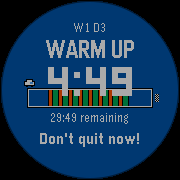
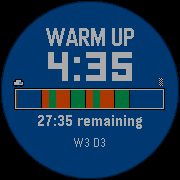
feat: health capability, menu padding on rect, motivation on Time 2
Added health capability to package.json for heart rate access.

Menus: extra padding on rect (emery/Time 2) — text and accents
shifted inward from edges. Completion dots moved slightly left.

Run screen: motivational sayings shown below W/D on rect screens
(they have vertical room without round clipping). Round screens
stay clean without motivation text.

Changed region(s): [[0.0556, 0.1111, 0.9167, 0.8333], [0.3889, 0.3889, 0.4444, 0.4722]]

diff --git a/src/c/main.c b/src/c/main.c
@@ -531,6 +531,13 @@ static void run_draw(Layer *l, GContext *ctx) {
       GRect(0,y_hdr,w,18), GTextOverflowModeTrailingEllipsis, GTextAlignmentCenter, NULL);
   }
 
+  // Motivational saying (rect screens have room below W/D)
+  #ifdef PBL_RECT
+  graphics_context_set_text_color(ctx, fg);
+  graphics_draw_text(ctx, s_motiv[s_mi], f14,
+    GRect(10, y_hdr+18, w-20, 36), GTextOverflowModeTrailingEllipsis, GTextAlignmentCenter, NULL);
+  #endif
+
   // Paused overlay
   if(s_paused) {
     // Dark overlay box
@@ -697,7 +704,12 @@ static void day_draw(GContext *ctx, const Layer *cell, MenuIndex *idx, void *dat
   // Left accent: mini session preview bar
   int o=s_sess[si][0], n=s_sess[si][1];
   int acc_h = cb.size.h - 8;
-  int acc_x = 4, acc_y = 4;
+  #ifdef PBL_RECT
+  int acc_x = 10;
+  #else
+  int acc_x = 4;
+  #endif
+  int acc_y = 4;
   for(int i=0; i<n; i++) {
     int seg_h = (s_phases[o+i].dur * acc_h) / sess_dur(si);
     if(seg_h < 1) seg_h = 1;
@@ -707,8 +719,12 @@ static void day_draw(GContext *ctx, const Layer *cell, MenuIndex *idx, void *dat
   }
   #endif
 
-  // Text
+  // Text — extra padding on rect screens
+  #ifdef PBL_RECT
+  int tx = 22;
+  #else
   int tx = 14;
+  #endif
   graphics_context_set_text_color(ctx, selected ? GColorWhite :
     (done ? GColorLightGray : GColorWhite));
 
@@ -721,12 +737,12 @@ static void day_draw(GContext *ctx, const Layer *cell, MenuIndex *idx, void *dat
   GFont ft = fonts_get_system_font(FONT_KEY_GOTHIC_24_BOLD);
   GFont fs = fonts_get_system_font(FONT_KEY_GOTHIC_14);
   graphics_draw_text(ctx, title, ft,
-    GRect(tx, 2, cb.size.w-tx-10, 28), GTextOverflowModeTrailingEllipsis, GTextAlignmentLeft, NULL);
+    GRect(tx, 2, cb.size.w-tx-16, 28), GTextOverflowModeTrailingEllipsis, GTextAlignmentLeft, NULL);
 
   char sub[40];
   snprintf(sub, sizeof(sub), "%s (%d min)", s_sess_desc[si], sess_dur(si)/60);
   graphics_draw_text(ctx, sub, fs,
-    GRect(tx, 28, cb.size.w-tx-10, 18), GTextOverflowModeTrailingEllipsis, GTextAlignmentLeft, NULL);
+    GRect(tx, 28, cb.size.w-tx-16, 18), GTextOverflowModeTrailingEllipsis, GTextAlignmentLeft, NULL);
 
   // Green check circle for completed
   #ifdef PBL_COLOR
@@ -822,13 +838,18 @@ static void wk_draw(GContext *ctx, const Layer *cell, MenuIndex *idx, void *data
   #endif
   graphics_context_set_text_color(ctx, selected ? GColorWhite : tc);
 
+  #ifdef PBL_RECT
+  int wx = 18;
+  #else
+  int wx = 10;
+  #endif
   graphics_draw_text(ctx, title, ft,
-    GRect(10, 2, cb.size.w-50, 28), GTextOverflowModeTrailingEllipsis, GTextAlignmentLeft, NULL);
+    GRect(wx, 2, cb.size.w-wx-50, 28), GTextOverflowModeTrailingEllipsis, GTextAlignmentLeft, NULL);
   graphics_draw_text(ctx, s_wk_desc[row], fs,
-    GRect(10, 28, cb.size.w-50, 18), GTextOverflowModeTrailingEllipsis, GTextAlignmentLeft, NULL);
+    GRect(wx, 28, cb.size.w-wx-50, 18), GTextOverflowModeTrailingEllipsis, GTextAlignmentLeft, NULL);
 
   // Completion dots (3 circles on right side)
-  int dx = cb.size.w - 34;
+  int dx = cb.size.w - 40;
   int dy = cb.size.h / 2;
   for(int d=0; d<3; d++) {
     #ifdef PBL_COLOR
